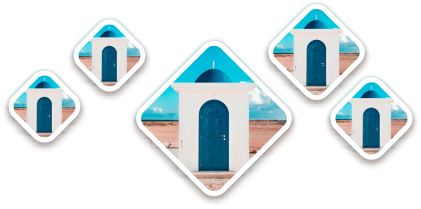
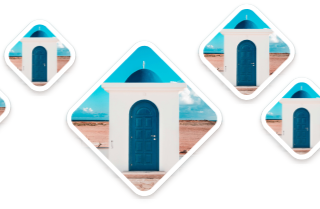
адаптив - футер + исправление ошибок

diff --git a/assets/styles/styles.css b/assets/styles/styles.css
@@ -75,7 +75,7 @@ header{
     background-position: top;
 }
 
-header .navbar-mob, header .main-welcome .welcome-img .img-mobile, .section-adventure .main-info .route-mobile{
+header .navbar-mob, header .main-welcome .img-mobile, .section-adventure .main-info .route-mobile{
     display: none;
 }
 
@@ -194,7 +194,7 @@ header .rombiki{
     width: 80%;
 }
 
-.section-adventure .main-info .route{
+.section-adventure .main-info .route-desktop{
     position: absolute;
     top: 975px;
     left: 150px;
@@ -563,6 +563,12 @@ footer{
     color: white;
 }
 
+.section-footer .info .boxs{
+    display: flex;
+    justify-content: space-around;
+    width: 70%;
+}
+
 .section-footer .info .box .title{
     font-size: 20px;
     padding-bottom: 10px;
@@ -604,7 +610,7 @@ footer{
 
 @media (max-width: 600px) {
     .container{
-        width: 320px;
+        width: 90%;
     }
     header .rombiki, header .main-welcome .welcome-img, header .navigation button{
         display: none;
@@ -654,7 +660,7 @@ footer{
         background-color: white;
         position: fixed;
         bottom: 0;
-        right: 60px;
+        right: 33px;
         box-shadow:  0px 6px 14px 2px rgba(0, 0, 0, 0.2);
         padding-top: 5px;
         overflow: hidden;
@@ -688,11 +694,10 @@ footer{
     header .main-welcome .img-mobile{
         display: block;
         top: 320px;
-        right: -30px;
+        right: 1px;
         position: absolute;
-        overflow: hidden !important;
     }
-
+    
     .section-adventure .main-info .text{
         text-align: center;
         display: flex;
@@ -798,9 +803,10 @@ footer{
         grid-template-columns: 0.3fr 1fr;
         gap: 3px;
         transform: rotate(45deg);
-        margin-left: 50px;
-        margin-top: -50px;
+        margin-left: 85px;
+        margin-top: -163px;
         justify-content: flex-start;
+        width: 100px;
     }
 
     .section-enough .container *{
@@ -822,7 +828,7 @@ footer{
     }
 
     .section-blog .container{
-        padding: 0;
+        padding: 70px 0;
     }
 
     .title-text img{
@@ -888,7 +894,6 @@ footer{
 
     .section-roadmap .container{
         padding: 30px;
-        margin: 10px;
     }
 
     .section-roadmap .title-text .title h2{
@@ -930,5 +935,50 @@ footer{
 
     .section-roadmap .bl-wht_btn{
         margin: 0 30%;
+    }
+
+    .section-blog .img .image .cover{
+        font-size: 16px;
+    }
+
+    .section-footer .info .boxs{
+        flex-direction: column;
+        width: 50%;
+    }
+
+    .section-footer .info .box .title{
+        font-size: 12px;
+        padding-bottom: 5px;
+    }
+
+    .section-footer .info .box .content{
+        font-size: 11px;
+    }
+
+    .section-footer .info .box{
+        padding-bottom: 20px;
+    }
+
+    .section-footer .info{
+        align-items: start;
+    }
+
+    .section-footer .line{
+        margin: 30px 10%;
+    }
+
+    .section-footer .copyright p:nth-child(1){
+        font-size: 10px;
+    }
+
+    .section-footer .copyright p:nth-child(2){
+        font-size: 9px;
+        letter-spacing: 1px;
+        padding-bottom: 30px;
+    }
+
+    .section-footer .copyright .socialmed img{
+        padding: 5px;
+        width: 25px;
     }
 }

diff --git a/index.html b/index.html
@@ -233,19 +233,21 @@
                     <div class="logo">
                         <img src="./assets/imgs/logo_white.svg" alt="">
                     </div>
-                    <div class="box call-center">
-                        <p class="title">Call Center</p>
-                        <p class="content">+7 800 555 35 35 <br> +7 800 555 35 35</p>
-                    </div>
-                    <div class="box email">
-                        <p class="title">Email</p>
-                        <p class="content">support@yourmail.com</p>
-                    </div>
-                    <div class=" box office">
-                        <p class="title">Office</p>
-                        <p class="content">123 Eleftherias Avenue 
-                            Apt. 5B <br>
-                            Paphos 8010 Cyprus</p>
+                    <div class="boxs">
+                        <div class="box call-center">
+                            <p class="title">Call Center</p>
+                            <p class="content">+7 800 555 35 35 <br> +7 800 555 35 35</p>
+                        </div>
+                        <div class="box email">
+                            <p class="title">Email</p>
+                            <p class="content">support@yourmail.com</p>
+                        </div>
+                        <div class=" box office">
+                            <p class="title">Office</p>
+                            <p class="content">123 Eleftherias Avenue 
+                                Apt. 5B <br>
+                                Paphos 8010 Cyprus</p>
+                        </div>
                     </div>
                 </div>
 
